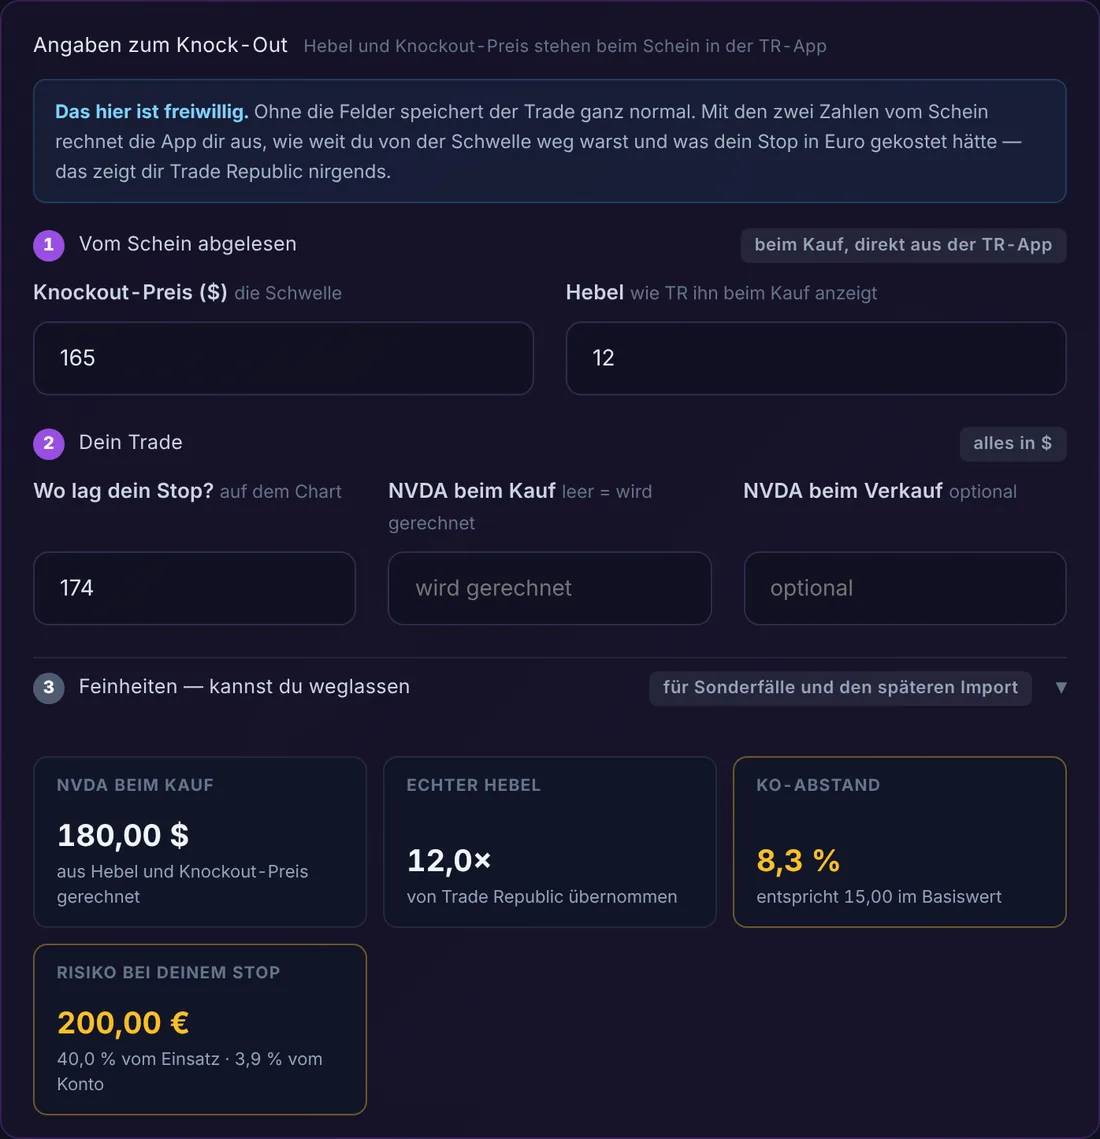
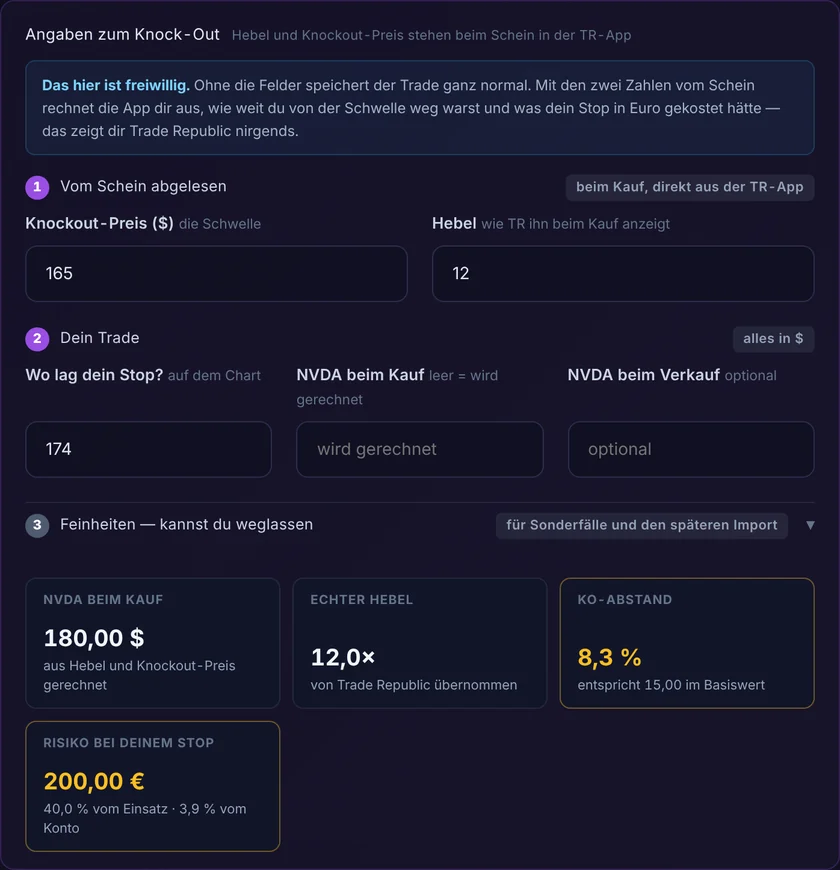
Schaerfere Bilder, Hintergrund mit mehr Tiefe

Changed region(s): [[0.7429, 0.7448, 0.7738, 0.7759]]

diff --git a/index.html b/index.html
@@ -56,40 +56,100 @@ body {
     overflow-x: hidden;
 }
 
-/* Zwei Lichtscheine, die sich langsam bewegen. Sehr langsam und sehr
-   schwach - Bewegung, die man bemerkt, lenkt vom Text ab. */
-body::before, body::after {
-    content: '';
+/* ===== HINTERGRUND =====
+   Drei Schichten, alle fest im Fenster, alle sehr schwach. Einzeln
+   faellt keine auf - zusammen geben sie der Seite Tiefe, statt dass
+   sie wie ein schwarzes Rechteck wirkt.
+
+     1. Ein feines Punktraster, das nach unten ausblendet. Gibt dem
+        Auge etwas, woran es Entfernung ablesen kann.
+     2. Drei farbige Scheine, die langsam atmen und wandern.
+     3. Eine dunkle Vignette an den Raendern, damit die Mitte traegt.
+
+   Alles sehr langsam: Bewegung, die man bewusst bemerkt, lenkt vom
+   Text ab. Wer Bewegung abgestellt hat, bekommt nur die Farben. */
+.hg {
     position: fixed;
-    border-radius: 50%;
-    pointer-events: none;
+    inset: 0;
     z-index: 0;
-    filter: blur(90px);
+    pointer-events: none;
+    overflow: hidden;
 }
-body::before {
-    top: -30vh; left: 50%;
-    width: 90vw; height: 70vh;
-    transform: translateX(-50%);
+
+/* 1. Punktraster */
+.hg-raster {
+    position: absolute;
+    inset: 0;
+    background-image: radial-gradient(rgba(168, 85, 247, 0.30) 1.1px, transparent 1.1px);
+    background-size: 28px 28px;
+    /* Nach unten und zu den Seiten ausblenden: ein Raster, das bis zum
+       Rand durchläuft, sieht nach Tapete aus statt nach Tiefe. */
+    -webkit-mask-image: radial-gradient(ellipse 90% 70% at 50% 24%,
+        rgba(0,0,0,0.95) 0%, rgba(0,0,0,0.4) 48%, transparent 78%);
+    mask-image: radial-gradient(ellipse 90% 70% at 50% 24%,
+        rgba(0,0,0,0.95) 0%, rgba(0,0,0,0.4) 48%, transparent 78%);
+}
+
+/* 2. Scheine */
+.hg-schein {
+    position: absolute;
+    border-radius: 50%;
+    filter: blur(80px);
+}
+.hg-1 {
+    top: -32vh; left: 50%;
+    width: 86vw; height: 72vh;
+    margin-left: -43vw;
     background: radial-gradient(ellipse at center,
-        rgba(168, 85, 247, 0.16) 0%, transparent 62%);
-    animation: atmen 16s ease-in-out infinite;
+        rgba(168, 85, 247, 0.28) 0%, transparent 64%);
+    animation: atmen 17s ease-in-out infinite;
 }
-body::after {
-    top: 34vh; right: -18vw;
-    width: 52vw; height: 52vh;
+.hg-2 {
+    top: 26vh; right: -20vw;
+    width: 58vw; height: 58vh;
     background: radial-gradient(circle at center,
-        rgba(236, 72, 153, 0.11) 0%, transparent 62%);
-    animation: atmen 21s ease-in-out infinite reverse;
+        rgba(236, 72, 153, 0.20) 0%, transparent 64%);
+    animation: wandern 26s ease-in-out infinite;
+}
+.hg-3 {
+    bottom: -26vh; left: -14vw;
+    width: 54vw; height: 54vh;
+    background: radial-gradient(circle at center,
+        rgba(99, 102, 241, 0.18) 0%, transparent 64%);
+    animation: wandern 33s ease-in-out infinite reverse;
 }
 
 @keyframes atmen {
-    0%, 100% { opacity: 0.75; transform: translateX(-50%) scale(1); }
-    50%      { opacity: 1;    transform: translateX(-50%) scale(1.12); }
+    0%, 100% { opacity: 0.7; transform: scale(1); }
+    50%      { opacity: 1;   transform: scale(1.14); }
 }
-body::after { animation-name: atmen2; }
-@keyframes atmen2 {
-    0%, 100% { opacity: 0.6; transform: scale(1); }
-    50%      { opacity: 1;   transform: scale(1.16); }
+@keyframes wandern {
+    0%, 100% { opacity: 0.6; transform: translate(0, 0) scale(1); }
+    33%      { opacity: 0.95; transform: translate(-5vw, 4vh) scale(1.14); }
+    66%      { opacity: 0.75; transform: translate(3vw, -3vh) scale(1.05); }
+}
+
+/* 3. Vignette */
+.hg-rand {
+    position: absolute;
+    inset: 0;
+    background: radial-gradient(ellipse 120% 80% at 50% 40%,
+        transparent 40%, rgba(5, 5, 14, 0.55) 100%);
+}
+
+/* Ein Lichtband, das ganz langsam von links nach rechts zieht.
+   Bei zehn Prozent Deckkraft sieht man es nicht, man spuert nur, dass
+   die Seite nicht stillsteht. */
+.hg-band {
+    position: absolute;
+    top: 0; left: -40%;
+    width: 40%; height: 100%;
+    background: linear-gradient(100deg, transparent,
+        rgba(168, 85, 247, 0.07), transparent);
+    animation: ziehen 19s linear infinite;
+}
+@keyframes ziehen {
+    to { left: 140%; }
 }
 
 .huelle { position: relative; z-index: 1; max-width: 980px; margin: 0 auto; padding: 0 20px; }
@@ -478,6 +538,15 @@ footer a:hover { color: var(--hell); }
 </head>
 <body>
 
+<div class="hg" aria-hidden="true">
+    <div class="hg-schein hg-1"></div>
+    <div class="hg-schein hg-2"></div>
+    <div class="hg-schein hg-3"></div>
+    <div class="hg-band"></div>
+    <div class="hg-raster"></div>
+    <div class="hg-rand"></div>
+</div>
+
 <div class="huelle">
 
     <header>
@@ -516,7 +585,7 @@ footer a:hover { color: var(--hell); }
             ohne Store, ohne Setup-Datei. Läuft auf Windows, Mac, iPhone und Android.
         </p>
 
-        <figure class="vorschau" data-gross="img/start-vorschau.webp">
+        <figure class="vorschau" data-gross="img/start-vorschau@2x.webp">
             <img src="img/start-vorschau.webp" alt="Das Dashboard von CapitalFlow mit Tages-, Wochen- und Gesamtergebnis" width="1280" height="720">
         </figure>
     </div>
@@ -567,11 +636,11 @@ footer a:hover { color: var(--hell); }
             Denselben Export kannst du jeden Monat neu einlesen.
         </p>
         <div class="raster">
-            <figure class="bild-karte karte" data-gross="img/anleitung/02-import.webp">
+            <figure class="bild-karte karte" data-gross="img/anleitung/02-import@2x.webp">
                 <img src="img/anleitung/02-import.webp" alt="Der Daten-Tab mit CSV-Import" loading="lazy">
                 <figcaption>Import, Sicherung und Löschen an einer Stelle</figcaption>
             </figure>
-            <figure class="bild-karte karte" data-gross="img/anleitung/04-kacheln.webp">
+            <figure class="bild-karte karte" data-gross="img/anleitung/04-kacheln@2x.webp">
                 <img src="img/anleitung/04-kacheln.webp" alt="Berechnete Kennzahlen zu einem Knock-Out" loading="lazy">
                 <figcaption>Zwei Zahlen vom Schein — den Rest rechnet die App</figcaption>
             </figure>
@@ -590,7 +659,7 @@ footer a:hover { color: var(--hell); }
                 <img src="img/anleitung/06-tradekarte.webp" alt="Eine Trade-Karte im Journal" loading="lazy">
                 <figcaption>Eine Trade-Karte im Journal</figcaption>
             </figure>
-            <figure class="bild-karte karte" data-gross="img/anleitung/03-knockout.webp">
+            <figure class="bild-karte karte" data-gross="img/anleitung/03-knockout@2x.webp">
                 <img src="img/anleitung/03-knockout.webp" alt="Das Knock-Out-Formular im Journal" loading="lazy">
                 <figcaption>Das Formular für Knock-Outs</figcaption>
             </figure>

diff --git a/app.html b/app.html
@@ -1130,7 +1130,7 @@
                     wurden, wie viele schon da sind, was übersprungen wird.
                     <strong>Gespeichert wird nichts, bevor du auf Übernehmen gehst.</strong>
                 </p>
-                <figure class="hilfe-bild" onclick="openScreenshotModal('img/anleitung/02-import.webp')" title="Vergrößern">
+                <figure class="hilfe-bild" onclick="openScreenshotModal('img/anleitung/02-import@2x.webp')" title="Vergrößern">
                     <img src="img/anleitung/02-import.webp" alt="Der Daten-Tab mit Import, Sicherung und Löschen" loading="lazy">
                     <figcaption>Der Daten-Tab. Hier liegt auch die Sicherung — und der Weg, alles wieder loszuwerden.</figcaption>
                 </figure>
@@ -1162,12 +1162,12 @@
                     <strong>Knockout-Preis</strong> und <strong>Hebel</strong>. Aus denen
                     rechnet die App alles andere zurück.
                 </p>
-                <figure class="hilfe-bild" onclick="openScreenshotModal('img/anleitung/03-knockout.webp')" title="Vergrößern">
+                <figure class="hilfe-bild" onclick="openScreenshotModal('img/anleitung/03-knockout@2x.webp')" title="Vergrößern">
                     <img src="img/anleitung/03-knockout.webp" alt="Das Knock-Out-Formular im Journal mit den Feldern für Knockout-Preis, Hebel und Stop" loading="lazy">
                     <figcaption>Produktart oben auf <em>Knock-Out</em> stellen, dann erscheint dieser Block.</figcaption>
                 </figure>
                 <p class="hilfe-text">Daraus wird, ohne dass du sonst etwas tust:</p>
-                <figure class="hilfe-bild" onclick="openScreenshotModal('img/anleitung/04-kacheln.webp')" title="Vergrößern">
+                <figure class="hilfe-bild" onclick="openScreenshotModal('img/anleitung/04-kacheln@2x.webp')" title="Vergrößern">
                     <img src="img/anleitung/04-kacheln.webp" alt="Berechnete Kacheln: Kurs beim Kauf, echter Hebel, KO-Abstand, Risiko in Euro" loading="lazy">
                                     <figcaption>Was die App aus zwei Zahlen rechnet</figcaption>
                 </figure>
@@ -1234,7 +1234,7 @@
                     <span class="hilfe-nr">6</span>
                     <h3 class="hilfe-titel">Was die Zahlen bedeuten</h3>
                 </div>
-                <figure class="hilfe-bild" onclick="openScreenshotModal('img/anleitung/07-auswertung.webp')" title="Vergrößern">
+                <figure class="hilfe-bild" onclick="openScreenshotModal('img/anleitung/07-auswertung@2x.webp')" title="Vergrößern">
                     <img src="img/anleitung/07-auswertung.webp" alt="Der Analytics-Tab mit Trefferquote, Profit-Faktor und Erwartungswert" loading="lazy">
                                     <figcaption>Die Kennzahlen im Analytics-Tab</figcaption>
                 </figure>

diff --git a/sw.js b/sw.js
@@ -10,7 +10,7 @@
  * Bei jedem Release CACHE_VERSION hochzaehlen.
  */
 
-const CACHE_VERSION = 'cf-v44';
+const CACHE_VERSION = 'cf-v45';
 const CACHE_APP = CACHE_VERSION + '-app';
 const CACHE_ASSETS = CACHE_VERSION + '-assets';
 
